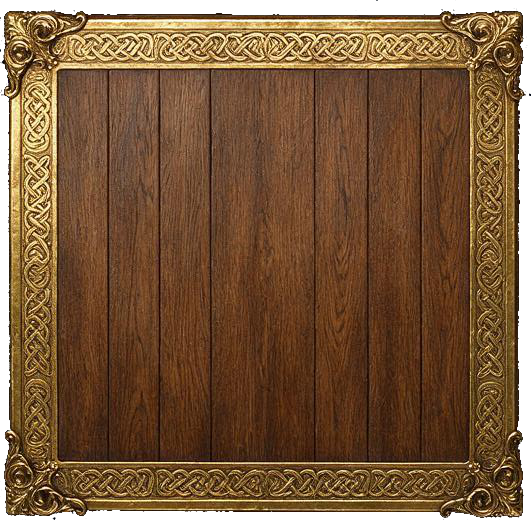
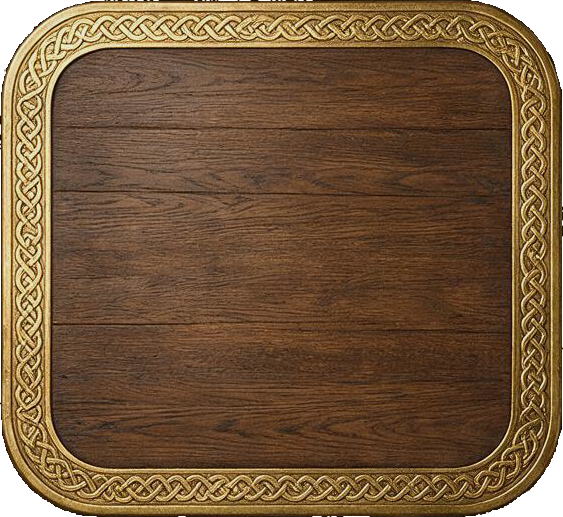
长桌重做：七档统一大圆角，同批生成
用户指出角部有方有圆。查下来第一轮的 7 档是从 5 张拼版里挑的，角部处理本就不统一
——放大看大部分是「方角配圆润角饰」，真正走四分之一圆弧的只有两三张。

重跑：把圆角写成可验证的描述（半径约为短边的六分之一，绝不是直角也不是切角），
一张拼版出全 7 档。三张抽卡 21 个桌子的角实心率全部 0.00。

但这批张间差异大（金边 20-41，张内只有 5.9-8.5），和第一批相反。先用单一标量增益
对齐平均亮度（同一标量乘三通道并钳位，非逐通道），金边差降到 14，仍大于张内。
最后决定混用，理由是差异观察不到——玩家一局只看到一张桌子，界面上不存在两张并排
的场景。拿观察不到的色差换每局都在看的 ±16.4% → ±8.0% 拉伸。

手册 5.6 补两条：风格一致性要和比例覆盖分开盯；判断瑕疵要不要修，先问它在什么
场景下会被看到。

diff --git a/docs/assets/界面资产接线说明.md b/docs/assets/界面资产接线说明.md
@@ -64,7 +64,7 @@ wxss 里的 `background: url(...)` 同理不能用包内路径。三个办法：
 | `home-emblem.png` | 160px | `.home-emblem` 首页「杯」 |
 | `seal-base.png` | 208px | 9 个状态印的**共用底纹**，汉字继续叠在上面 |
 | `table-round.jpg` | 512² | `.round-table` |
-| `table-long/` | 9 块 | `.long-table`，见 §3 |
+| `table-long/1..7.png` | 7 张整图 | `.long-table` 按比例分档，见 §3.2 |
 | `floor-green.jpg`<br>`floor-indigo.jpg`<br>`floor-wine.jpg`<br>`floor-umber.jpg` | 各 1080² | `.compact-table-stage` 台面，**四色玩家可选**，见 §4.1 |
 | `home-bg.jpg` | 750×1624 | 首页整屏底 |
 
@@ -154,18 +154,20 @@ wxml 里内联（`roundTableBg` 在 js 里 = `assets.uiAsset("table-round.jpg")`
 
 `.long-table` 的长宽比不是几个预设，是 **29 个连续值**（`tableLayout.js:79-82`：
 宽只看上下边人数、高只看左右边人数，两个参数独立，是笛卡尔积）。
-竖向布局用横图转 90°，否则要 58 张。七张覆盖 29 个值，**最大拉伸 ±7.4%**，
+竖向布局用横图转 90°，否则要 58 张。七张覆盖 29 个值，**最大拉伸 ±8.0%**，
 绝大多数在 1–5%，木纹和包边上肉眼看不出来。
+
+**七张的角部造型完全统一**（都是流畅的四分之一圆弧，不是方角配圆润角饰）。
 
 | 档 | 比例 | 像素 |
 |---|---|---|
-| `1.png` | 1.02 | 531×520 |
-| `2.png` | 1.17 | 630×538 |
-| `3.png` | 1.36 | 636×469 |
-| `4.png` | 1.53 | 653×428 |
-| `5.png` | 1.79 | 717×400 |
-| `6.png` | 2.29 | 717×313 |
-| `7.png` | 2.78 | 717×258 |
+| `1.png` | 1.09 | 563×517 |
+| `2.png` | 1.28 | 578×452 |
+| `3.png` | 1.54 | 630×408 |
+| `4.png` | 1.82 | 683×375 |
+| `5.png` | 2.13 | 736×345 |
+| `6.png` | 2.45 | 751×306 |
+| `7.png` | 2.90 | 915×315 |
 
 比例元数据在 `assets/ui/table-long/_meta.json`，**别把上表的数字抄进代码**，读那个文件。
 
